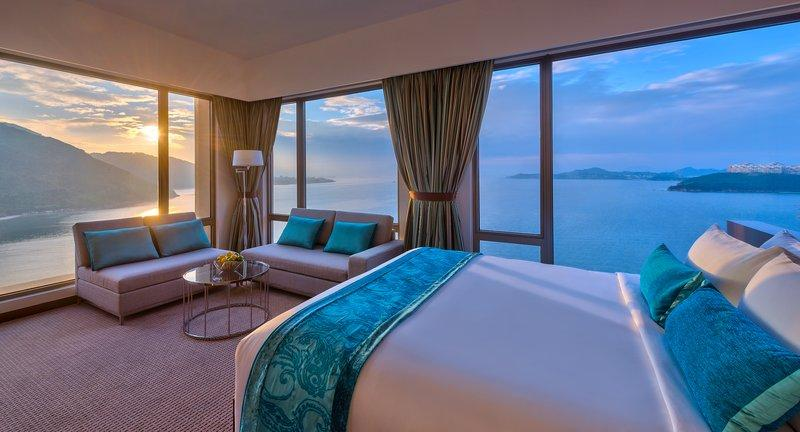
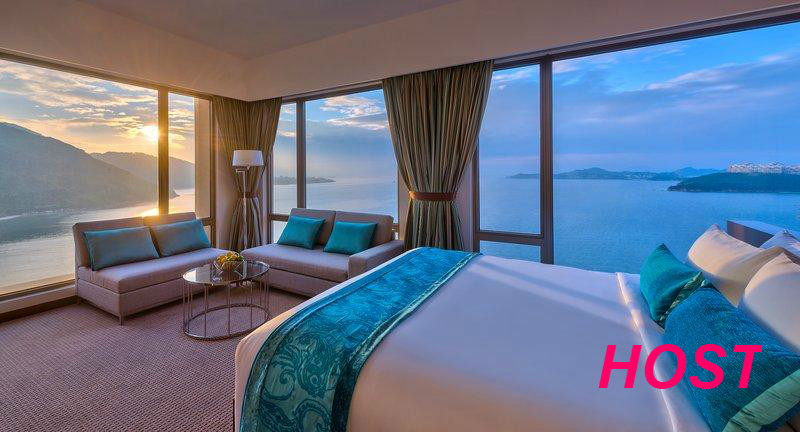
main img insert

Changed region(s): [[0.75, 0.7824, 0.9688, 0.9028]]

diff --git a/public/stylesheets/style.css b/public/stylesheets/style.css
@@ -38,15 +38,7 @@ a {
 
 .jumbotron {
   margin-top: -1em;
-  height: 100px;
-  -webkit-background-size: 100%;
-  -moz-background-size: 100%;
-  -o-background-size: 100%;
-  background-size: 100%;
-  min-height: 10em;
-  color: #000;
-  text-shadow: 2px 2px 10px rgba(0, 0, 0, 0.3);
-}
+  text-shadow: 2px 2px 10px rgba(0, 0, 0, 0.3); }
 
 .form-actions {
   padding: 19px 20px 20px;
@@ -67,18 +59,100 @@ a {
       margin: 20px 0;
       color: #bbb; }
 
-mainimg.div{
+form.todos {
+  width: 100%;
+  margin: 0 0 1em 0;
+  padding: 1em;
+  background: #acddf2; }
+  form.todos .main input[type='text'] {
+    font-size: 1.4em;
+    border: 1px solid #2c9cd2;
+    padding: 0.5em 1em;
+    margin-bottom: 1em;
+    width: 100%;
+    box-sizing: border-box; }
+  form.todos .actions button {
+    margin-top: 1em; }
+
+.tasks {
+  width: 100%;
+  list-style: none;
+  padding: 0;
+  margin: 0; }
+  .tasks li.task {
+    border-bottom: 1px solid #eaeaea;
+    padding: 1em 0; }
+    .tasks li.task span {
+      display: inline-block;
+      margin-right: 1em; }
+    .tasks li.task .check {
+      width: 2em;
+      height: 2em;
+      border-radius: 1em;
+      border: 1px solid #2c9cd2;
+      vertical-align: bottom; }
+    .tasks li.task .content {
+      font-size: 1.1em;
+      font-weight: bold;
+      line-height: 2em; }
+    .tasks li.task .category {
+      float: right;
+      min-width: 5em;
+      font-size: 0.9em; }
+    .tasks li.task .priority {
+      font-size: 0.8em;
+      border-radius: 0.8em;
+      background-color: #888;
+      color: #fff;
+      height: 200%;
+      line-height: 1.6em;
+      text-align: center;
+      padding: 0 1em; }
+      .tasks li.task .priority.p2 {
+        background-color: #b0b33c; }
+      .tasks li.task .priority.p3 {
+        background-color: #a51e23; }
+    .tasks li.task .deadline {
+      color: #ccc;
+      font-size: 0.9em; }
+
+.side .section {
+  background: #888;
+  width: 100%;
+  color: #fff; }
+  .side .section a {
+    color: #fff;
+    display: inline-block;
+    text-decoration: none;
+    width: 100%;
+    box-sizing: border-box;
+    padding: 0.5em 1em 0.5em 3em;
+    border-bottom: 1px solid #fff; }
+    .side .section a:last-child {
+      border-bottom: 0; }
+    .side .section a.all {
+      background: #444; }
+  .side .section a.selected {
+    padding-left: 1em;
+    background-color: #009eec; }
+    .side .section a.selected:before {
+      font-family: FontAwesome;
+      content: "\f00c";
+      display: inline-block;
+      vertical-align: middle;
+      padding-right: 1em; }
+  .side .section a:hover, .side .section a.selected:hover {
+    background-color: #337AB7; }
+
+div#main_img{
   display: inline-block;
+  margin-left: 1em;
 }
 
-div#host{
-  background-image: url("/images/outside.jpg");
-  color: #fff;
-  width: 50%;
+img#outside{
+  width: 48%;
 }
 
-div#guest{
-  background-image: url("/images/inside.jpg");
+img#inside{
   width: 50%;
-  color: #fff;
 }
